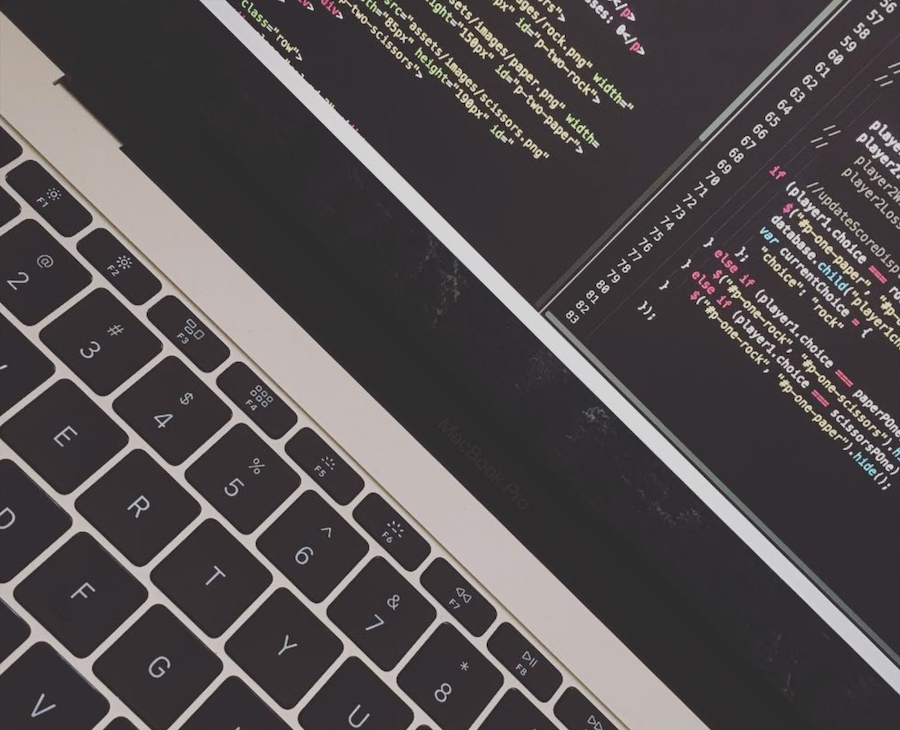
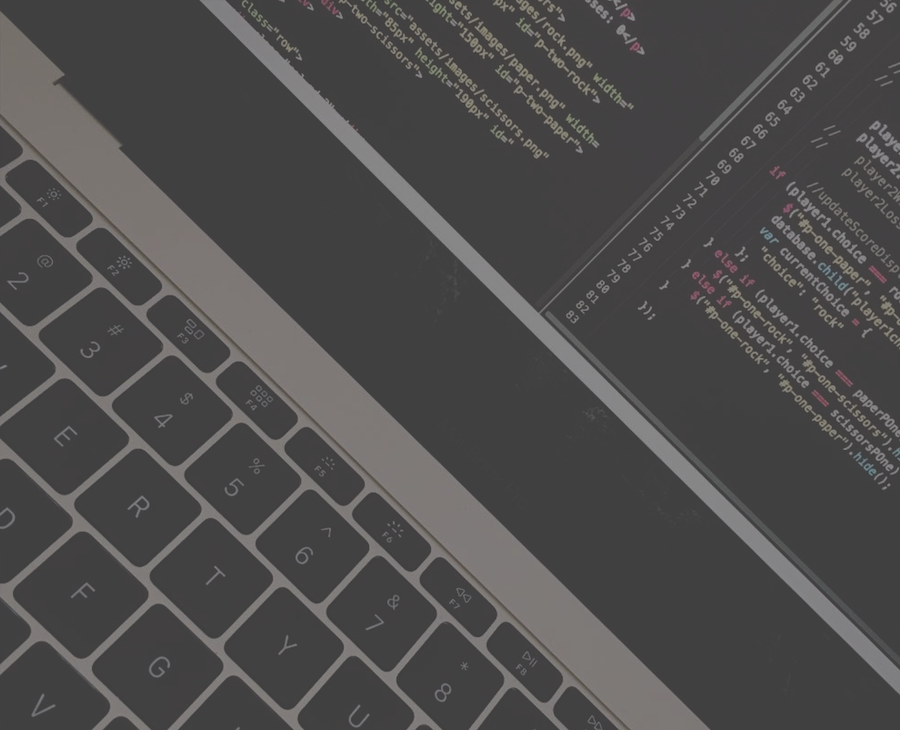
changed background image, styling tweaks

diff --git a/css/lizstyle.css b/css/lizstyle.css
@@ -69,7 +69,7 @@ h3 {
 }
 
 .para-first {
-	background-image: url("../images/workspace.png");
+	background-image: url("../images/keyboard.png");
 	/* background-color: #fff; */
 	background-position-y: -4em;
 }
@@ -175,7 +175,7 @@ a:hover {
 	background-color: #fff;
 	padding: 1em;
 	margin: 0 .2em;
-	opacity: .9;
+	/* opacity: .9; */
 	border-radius: 30px;
 	text-align: center;
 }
@@ -211,8 +211,11 @@ footer {
 @media (max-width: 967.98px) {
 	body {
 		/* background-image: url("../images/birdsmobile.jpg");  */
+		background-image: url('../images/keyboard-mobile.png');
 		background-attachment: fixed;
-		background-image: linear-gradient(to bottom, rgba(51, 51, 51, 1), rgba(255, 255, 255, 1) 90%);
+		background-repeat: no-repeat;
+		background-size: cover;
+		/* background-image: linear-gradient(to bottom, rgba(21, 51, 51, 1), rgba(55, 55, 55, 1) 90%); */
 	}
 	.para-first {
 		background-image: none;
@@ -251,9 +254,9 @@ footer {
 	.logos {
 		max-width: 7em;
 	}
-	.blurbs {
-		background-color: rgba(255, 255, 255, .8);
-	}
+	/* .blurbs {
+		background-color: rgba(255, 255, 255, .9);
+	} */
 	footer {
 		color: #333;
 	}
@@ -262,6 +265,10 @@ footer {
 /* Most mobile phones */
 
 @media (max-width: 517.98px) {
+	body {
+		background-position: -9em 0;
+
+	}
 	.container-teal {
 		/* background-color: #12373b; */
 		padding: 0 1em;

diff --git a/index.html b/index.html
@@ -365,14 +365,10 @@
 					<div class="col-lg-12">
 						<form action="https://formspree.io/liztrenholme@gmail.com" method="POST">
 							<input required type="text" name="fname" placeholder="First name" id="first-name">
-							<label for="first-name">First Name</label>
 							<input type="text" name="lname" placeholder="Last name" id="last-name">
-							<label for="last-name">Last Name</label>
 							<input required type="email" name="_replyto" placeholder="Your email address" id="email">
-							<label for="email">Email Address</label>
 							<textarea required rows="10" cols="40" name="message" placeholder="Message..." width="50%"
 								height="50%" id="message"></textarea>
-							<label for="message">Type your message here</label>
 							<input type="submit" class="submit btn-secondary" value="Send">
 						</form>
 					</div>
